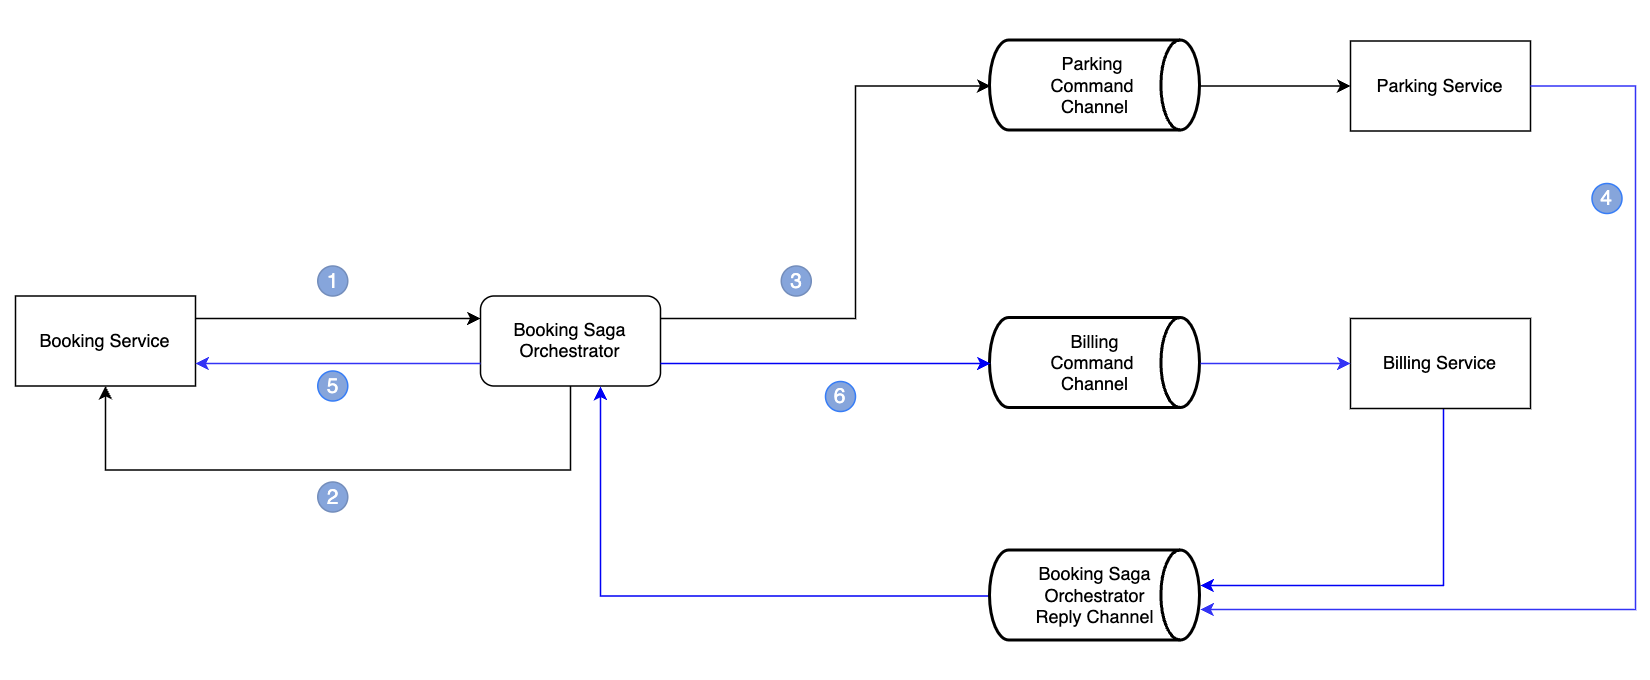
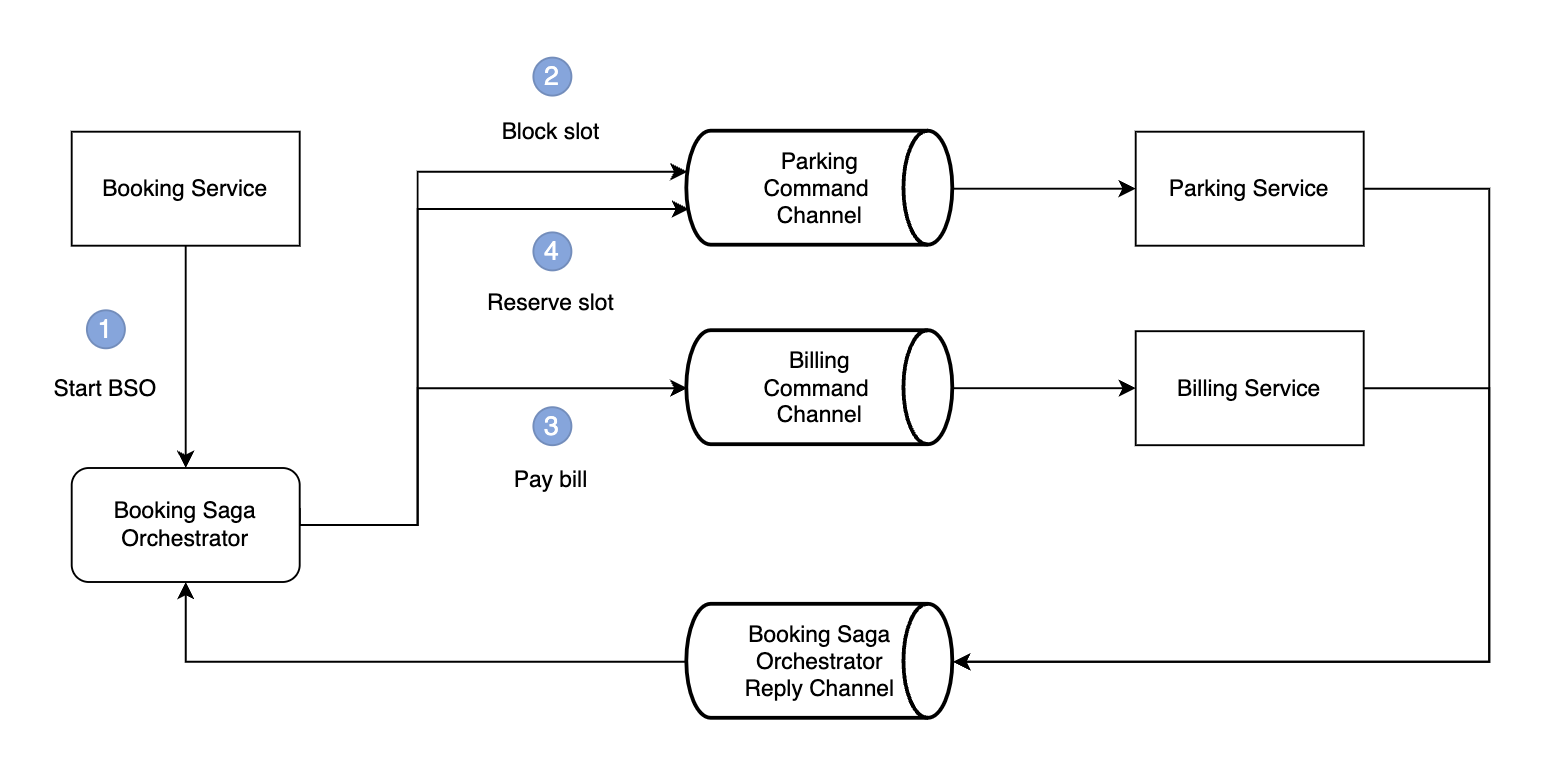
so: Update readme

diff --git a/saga-orchestration-example/README.md b/saga-orchestration-example/README.md
@@ -15,21 +15,13 @@ To demonstrate this pattern we will still have to use the same distributed syste
 
 ![saga-orchestration-pattern](https://github.com/roelzkie15/python-microservices-patterns/blob/master/saga-orchestration-example/resources/saga-orchestration-pattern.png)
 
-> NOTE: Image is outdated.
+1. Customer create a booking request for a parking slot and will start the **Booking Saga Orchestrator** or **BSO** and will create a new booking record with _pending_ status.
 
-1. Customer request a booking to a parking slot and will start the **Booking Saga Orchestrator** or **BSO**.
+1. It will then send a _**parking.block**_ command to **Parking Service** to lock the parking slot. If the parking slot is _available_. Trigger a _PARKING_AVAILABLE_ event to the **BSO** reply channel.
 
-1. The **BSO** will create a new booking record with _pending_ status.
+1. The **BSO** will proceed to the next step by updating the booking status to _approved_ and afterward fire a _**billing.pay**_ command to **Billing Service** to create a billing record with _paid_ status. It will then produce a _BILL_PAID_ event to the **BSO** reply channel.
 
-1. It will then send a _**parking.reserve**_ command to the **Parking Service** through the **Parking Channel**.
-
-1. The **Parking Service** will check the availability of the parking slot base on the customer's booking request and will send a reply to the **BSO** via **Booking Saga Orchestrator Reply Channel**. If the parking slot is _available_ then the <b>Parking Service</b> will send a <b><i>PARKING_AVAILABLE</i></b> event to the reply channel.
-
-1. The <b>BSO</b> will update the booking status to _approved_.
-
-1. The <b>BSO</b> also fire <b>billing.create</b> command to <b>Billing Service</b> to create a bill to the customer.
-
-1. The **Billing Service** will reply a <b><i>BILL_CREATED</i></b> event to the reply channel and the <b>BSO</b> will update the booking request status into _billed_.
+1. Finally **BSO** will proceed to another next step sending a _**parking.reserve**_ command to  **Parking Service** to set the parking record to _reserved_.
 
 ## Compensating (Rollback) Transaction in Orchestration pattern
 
